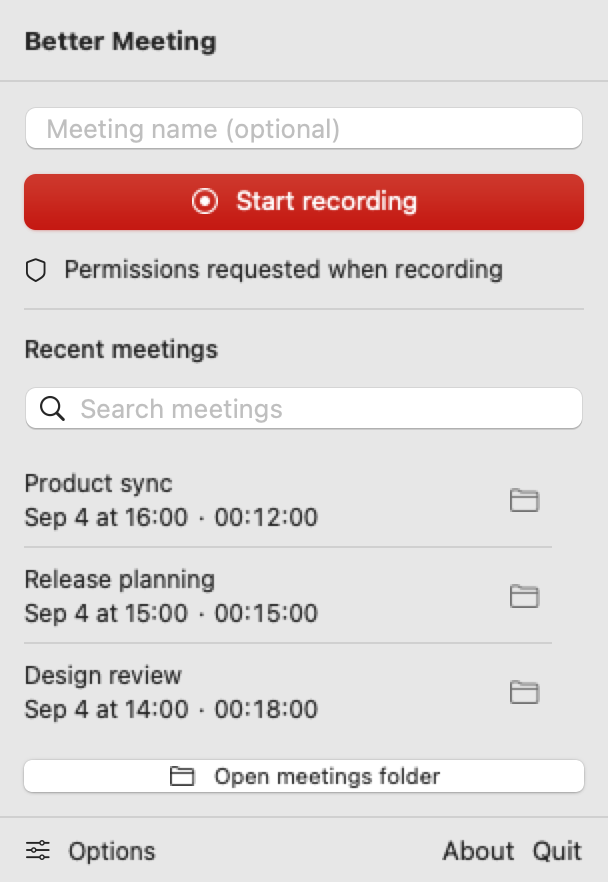
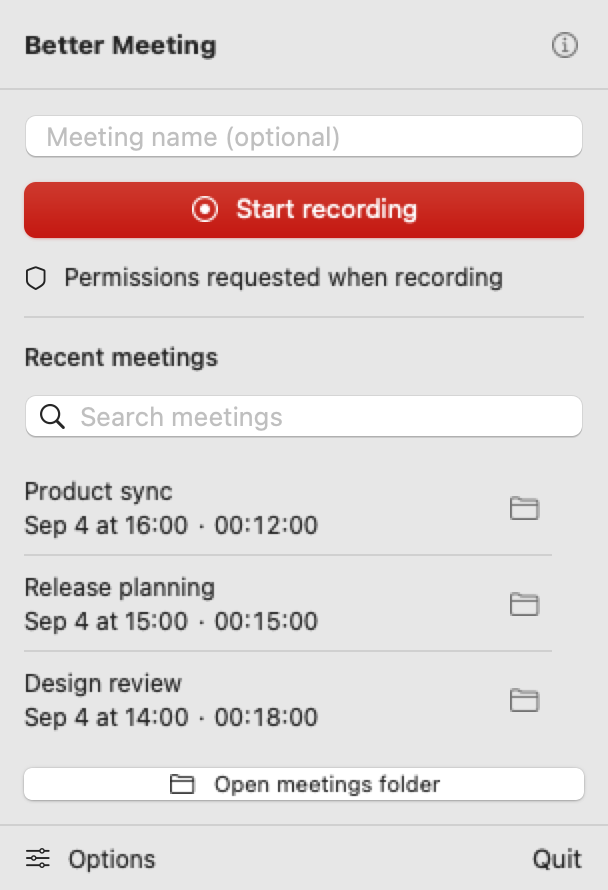
Move About to the top-right info button

diff --git a/Sources/BetterMeetingApp/MenuBarControlView.swift b/Sources/BetterMeetingApp/MenuBarControlView.swift
@@ -33,14 +33,6 @@ struct MenuBarControlView: View {
 
                 Spacer()
 
-                Button("About") {
-                    aboutPresented.toggle()
-                }
-                .buttonStyle(.plain)
-                .popover(isPresented: $aboutPresented, arrowEdge: .top) {
-                    AboutView()
-                }
-
                 Button("Quit") {
                     NSApp.terminate(nil)
                 }
@@ -70,12 +62,28 @@ struct MenuBarControlView: View {
             Text("Better Meeting")
                 .font(.headline)
 
-            if model.state != .idle {
-                Spacer()
+            Spacer()
 
+            if model.state != .idle {
                 Label(model.state.label, systemImage: model.state.symbol)
                     .font(.caption.weight(.medium))
                     .foregroundStyle(model.state.tint)
+            }
+
+            Button {
+                aboutPresented.toggle()
+            } label: {
+                Image(systemName: "info.circle")
+                    .font(.body)
+                    .foregroundStyle(.secondary)
+                    .frame(width: 20, height: 20)
+                    .contentShape(Rectangle())
+            }
+            .buttonStyle(.plain)
+            .help("About Better Meeting")
+            .accessibilityLabel("About Better Meeting")
+            .popover(isPresented: $aboutPresented, arrowEdge: .top) {
+                AboutView()
             }
         }
         .padding(.horizontal, 12)

diff --git a/README.md b/README.md
@@ -6,7 +6,7 @@ folder with the video, audio, and transcript, accessible from a Finder button.
 
 Requires an Apple Silicon Mac and macOS 15 or newer.
 
-<img src="docs/menu-bar.png" alt="Better Meeting menu with Options in the bottom-left corner and Finder buttons for recent meetings" width="304">
+<img src="docs/menu-bar.png" alt="Better Meeting menu with About in the top-right corner, Options at the bottom left, and Finder buttons for recent meetings" width="304">
 
 The app's menu, shown with fictional meetings.
 
@@ -27,7 +27,8 @@ macOS blocks the first launch, try opening the app, then use **System Settings
 → Privacy & Security → Open Anyway**. See [Apple's instructions](https://support.apple.com/102445).
 Managed Macs may not allow this exception.
 
-Open **About** in the menu footer to see the installed version and release page.
+Click the **ⓘ** button in the top-right corner to open **About**, with the installed
+version and release notes.
 **Check for Updates** contacts GitHub when clicked and reports whether a newer
 release is available. When one is found, **Update to [version]** appears for apps
 installed with Homebrew at `/opt/homebrew`. It opens Terminal, quits the app,
